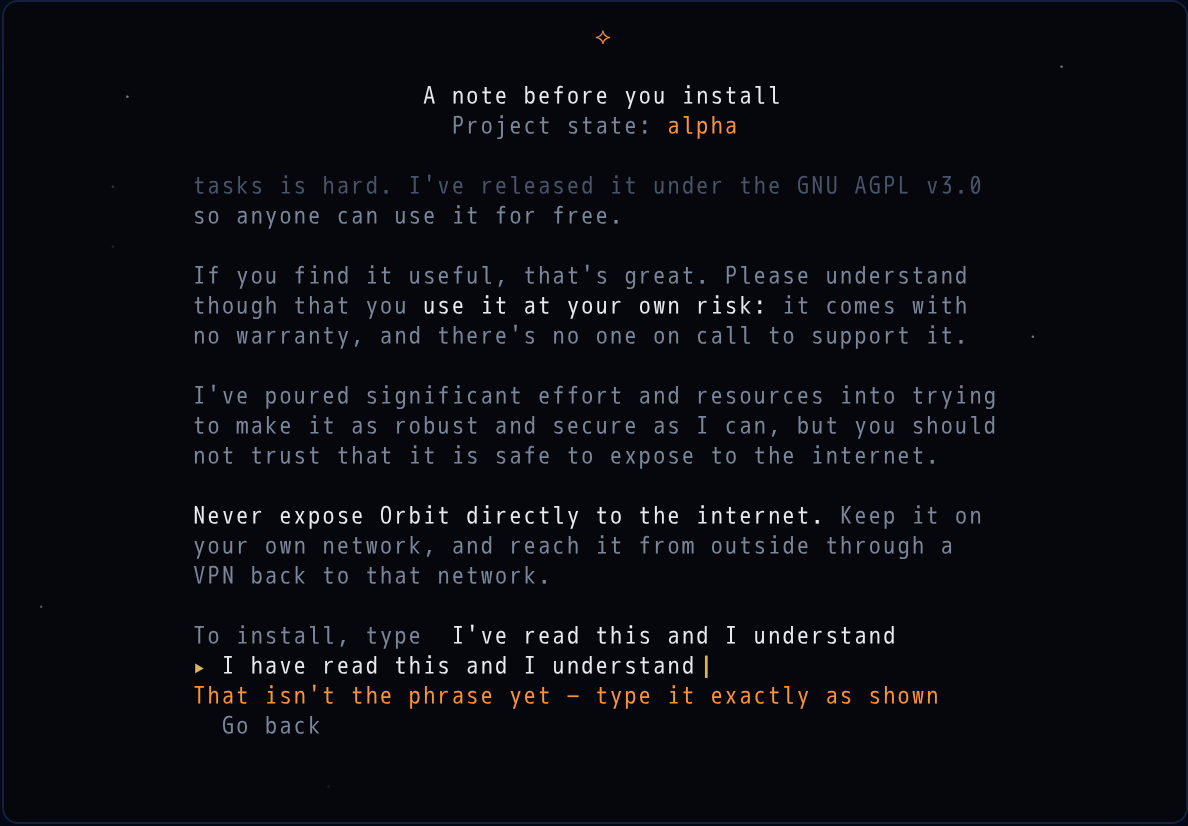
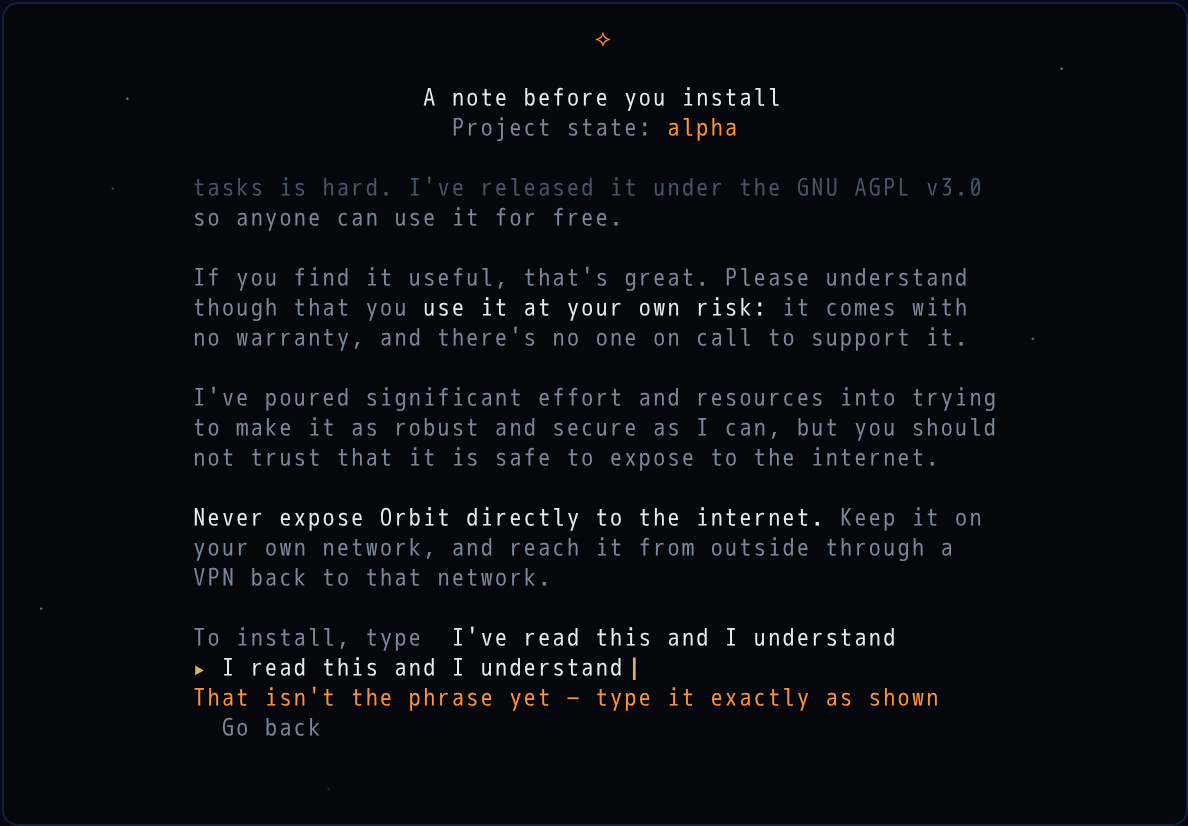
docs(design): accept "I have read this" in the notice phrase; new wrong-phrase example (#175)

diff --git a/design/mockups-v7-notice.html b/design/mockups-v7-notice.html
@@ -89,11 +89,12 @@
 <section>
   <h2><span>g</span> Wrong phrase, after Enter</h2>
   <div class="term scene" id="scene-g"><pre class="cells" id="n-g" role="img"
-    aria-label="Field shows I have read this and I understand with the cursor still at its end; beneath it an amber line reads That isn't the phrase yet, type it exactly as shown; Go back muted beneath."></pre></div>
-  <div class="cap">"I have" is a different word from "I've", so <kbd>↵</kbd> is refused in amber, in the
-    row that is otherwise the gap. The typed text stays for fixing; the next keystroke clears the
-    message. A missing or curly apostrophe, any capitals, a trailing full stop or spaces would all
-    have passed (owner ruling: capitals and apostrophes don't matter, words do).</div>
+    aria-label="Field shows I read this and I understand with the cursor still at its end; beneath it an amber line reads That isn't the phrase yet, type it exactly as shown; Go back muted beneath."></pre></div>
+  <div class="cap">A word is missing ("read" for "I've read"), so <kbd>↵</kbd> is refused in amber, in
+    the row that is otherwise the gap. The typed text stays for fixing; the next keystroke clears the
+    message. "I have read this and I understand", a missing or curly apostrophe, any capitals, a
+    trailing full stop or spaces would all have passed (owner rulings: capitals and apostrophes
+    don't matter, "I have" equals "I've", other words do matter).</div>
 </section>
 
 <section>
@@ -203,9 +204,11 @@
     waking is the "something changed" the person is watching for. <b>What matches</b> (owner ruling,
     2026-10-03: capitals and apostrophes don't matter, words do): both sides are compared after
     lower-casing, removing every apostrophe-like mark (' ’ ‘ ´ `), collapsing runs of spaces to one,
-    trimming the ends and dropping one trailing full stop; then they must be identical. So
-    "ive read this and i understand", "I'VE READ THIS AND I UNDERSTAND" and a curly ’ all pass;
-    "I have read this" fails, and so does a missing word. <b><kbd>↵</kbd> on an empty field does
+    trimming the ends and dropping one trailing full stop; then they must be identical, with one
+    further ruling: "I have read this and I understand" is accepted as the same phrase, so after
+    normalising, a leading "i have" counts as "ive". So "ive read this and i understand", "I'VE READ
+    THIS AND I UNDERSTAND", "I have read this and I understand" and a curly ’ all pass; a missing or
+    different word — "I read this and I understand", "I've read it" — fails. <b><kbd>↵</kbd> on an empty field does
     nothing</b>; on a partial or wrong phrase it shows <i>That isn't the phrase yet — type it exactly
     as shown</i> in amber, keeps the typed text for fixing, and the next keystroke clears the message.
     No attempt counter: nothing is at stake in retrying. <b>Go back stays a visible row</b>: Esc
@@ -444,7 +447,7 @@ noticeScreen("n-a",80,26,{offset:0,  elapsed:2});
 noticeScreen("n-b",80,26,{offset:1,  elapsed:12});
 noticeScreen("n-f",80,26,{offset:99, elapsed:26, run:true});
 noticeScreen("n-c",80,26,{offset:99, elapsed:TIMER_S, focus:"field", typed:"I've read th"});
-noticeScreen("n-g",80,26,{offset:99, elapsed:TIMER_S, focus:"field", typed:"I have read this and I understand", refused:true});
+noticeScreen("n-g",80,26,{offset:99, elapsed:TIMER_S, focus:"field", typed:"I read this and I understand", refused:true});
 noticeScreen("n-d",80,26,{offset:99, elapsed:TIMER_S, focus:"back"});
 noticeScreen("n-e",120,50,{offset:0, elapsed:0, run:true});
 </script>
